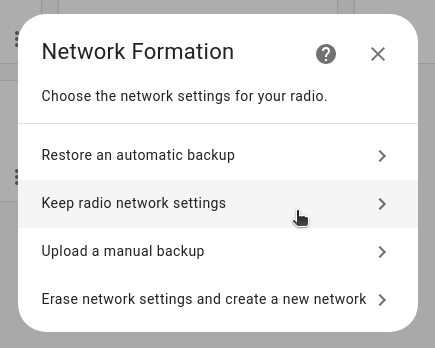
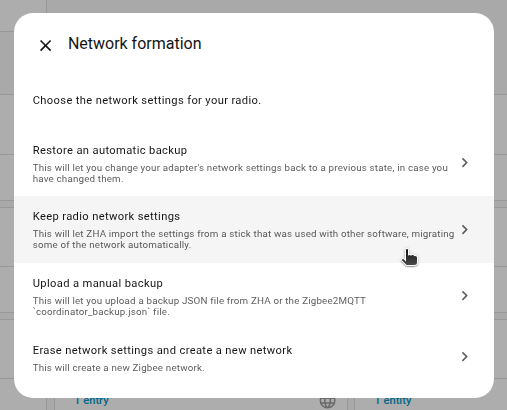
Migrate Z2M to ZHA: update steps to reflect current software

diff --git a/src/connect-zbt-1/getting-started/migrate-z2m-network.md b/src/connect-zbt-1/getting-started/migrate-z2m-network.md
@@ -21,7 +21,7 @@ This procedure only helps migrate basic network settings to Home Assistant Conne
 
 {% endcallout %}
 
-If you no longer have the old stick, you can migrate via a Zigbee2MQTT backup.
+If you no longer have the old stick, you can [migrate via a Zigbee2MQTT backup](/hc/en-us/articles/26700478689949).
 
 ## To migrate a Zigbee2MQTT network to ZHA
 
@@ -88,11 +88,23 @@ If you no longer have the old stick, you can migrate via a Zigbee2MQTT backup.
 {% endstepContent %}
 {% endstep %}
 
+{% step "Choosing the Zigbee setup" %}
+{% image "/static/img/connect-zbt-1/z2m-migrate-zha-21.png" "Choose the network settings for your radio" %}
+{% stepContent %}
+
+- Select **Advanced setup**.
+
+{% endstepContent %}
+{% endstep %}
+
 {% step "Choosing the network settings for your radio" %}
 {% image "/static/img/connect-zbt-1/z2m-migrate-zha-01.png" "Choose the network settings for your radio" %}
 {% stepContent %}
 
-- Select **Keep radio network settings**.
+- Select **Keep network settings**.
+  - This lets Zigbee Home Automation (ZHA) import settings from another device that was used with software other than ZHA.
+  - This way, some of the network settings can be migrated automatically.
+
 - {% stepResult "You can now start migrating the ZHA network as described below." %}
 
 {% endstepContent %}
